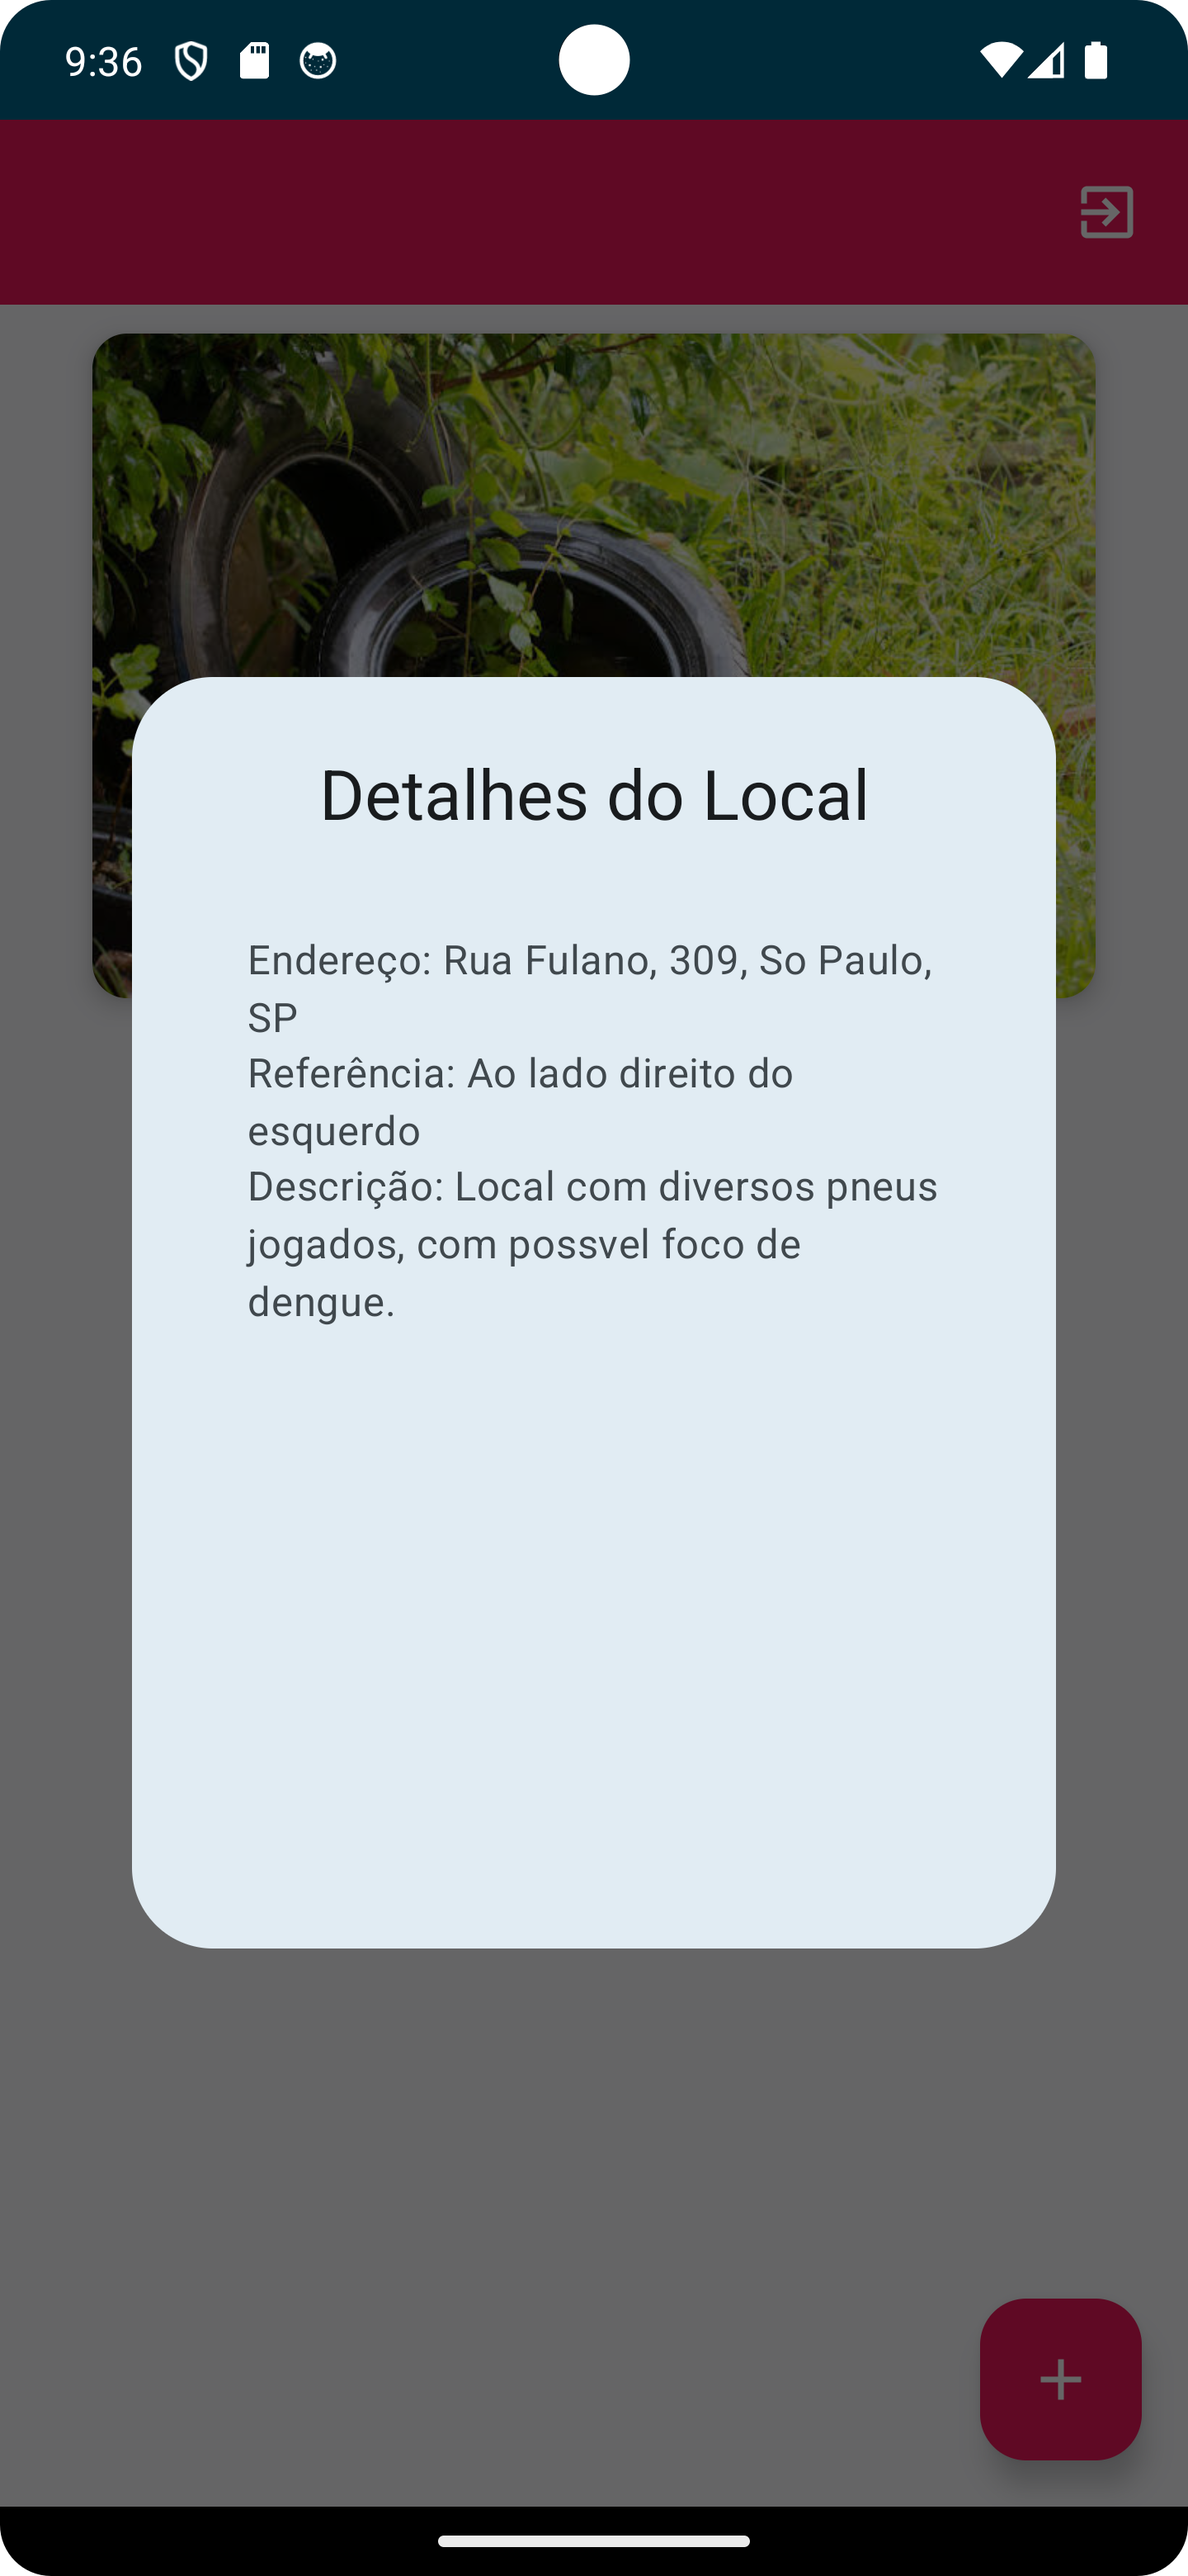
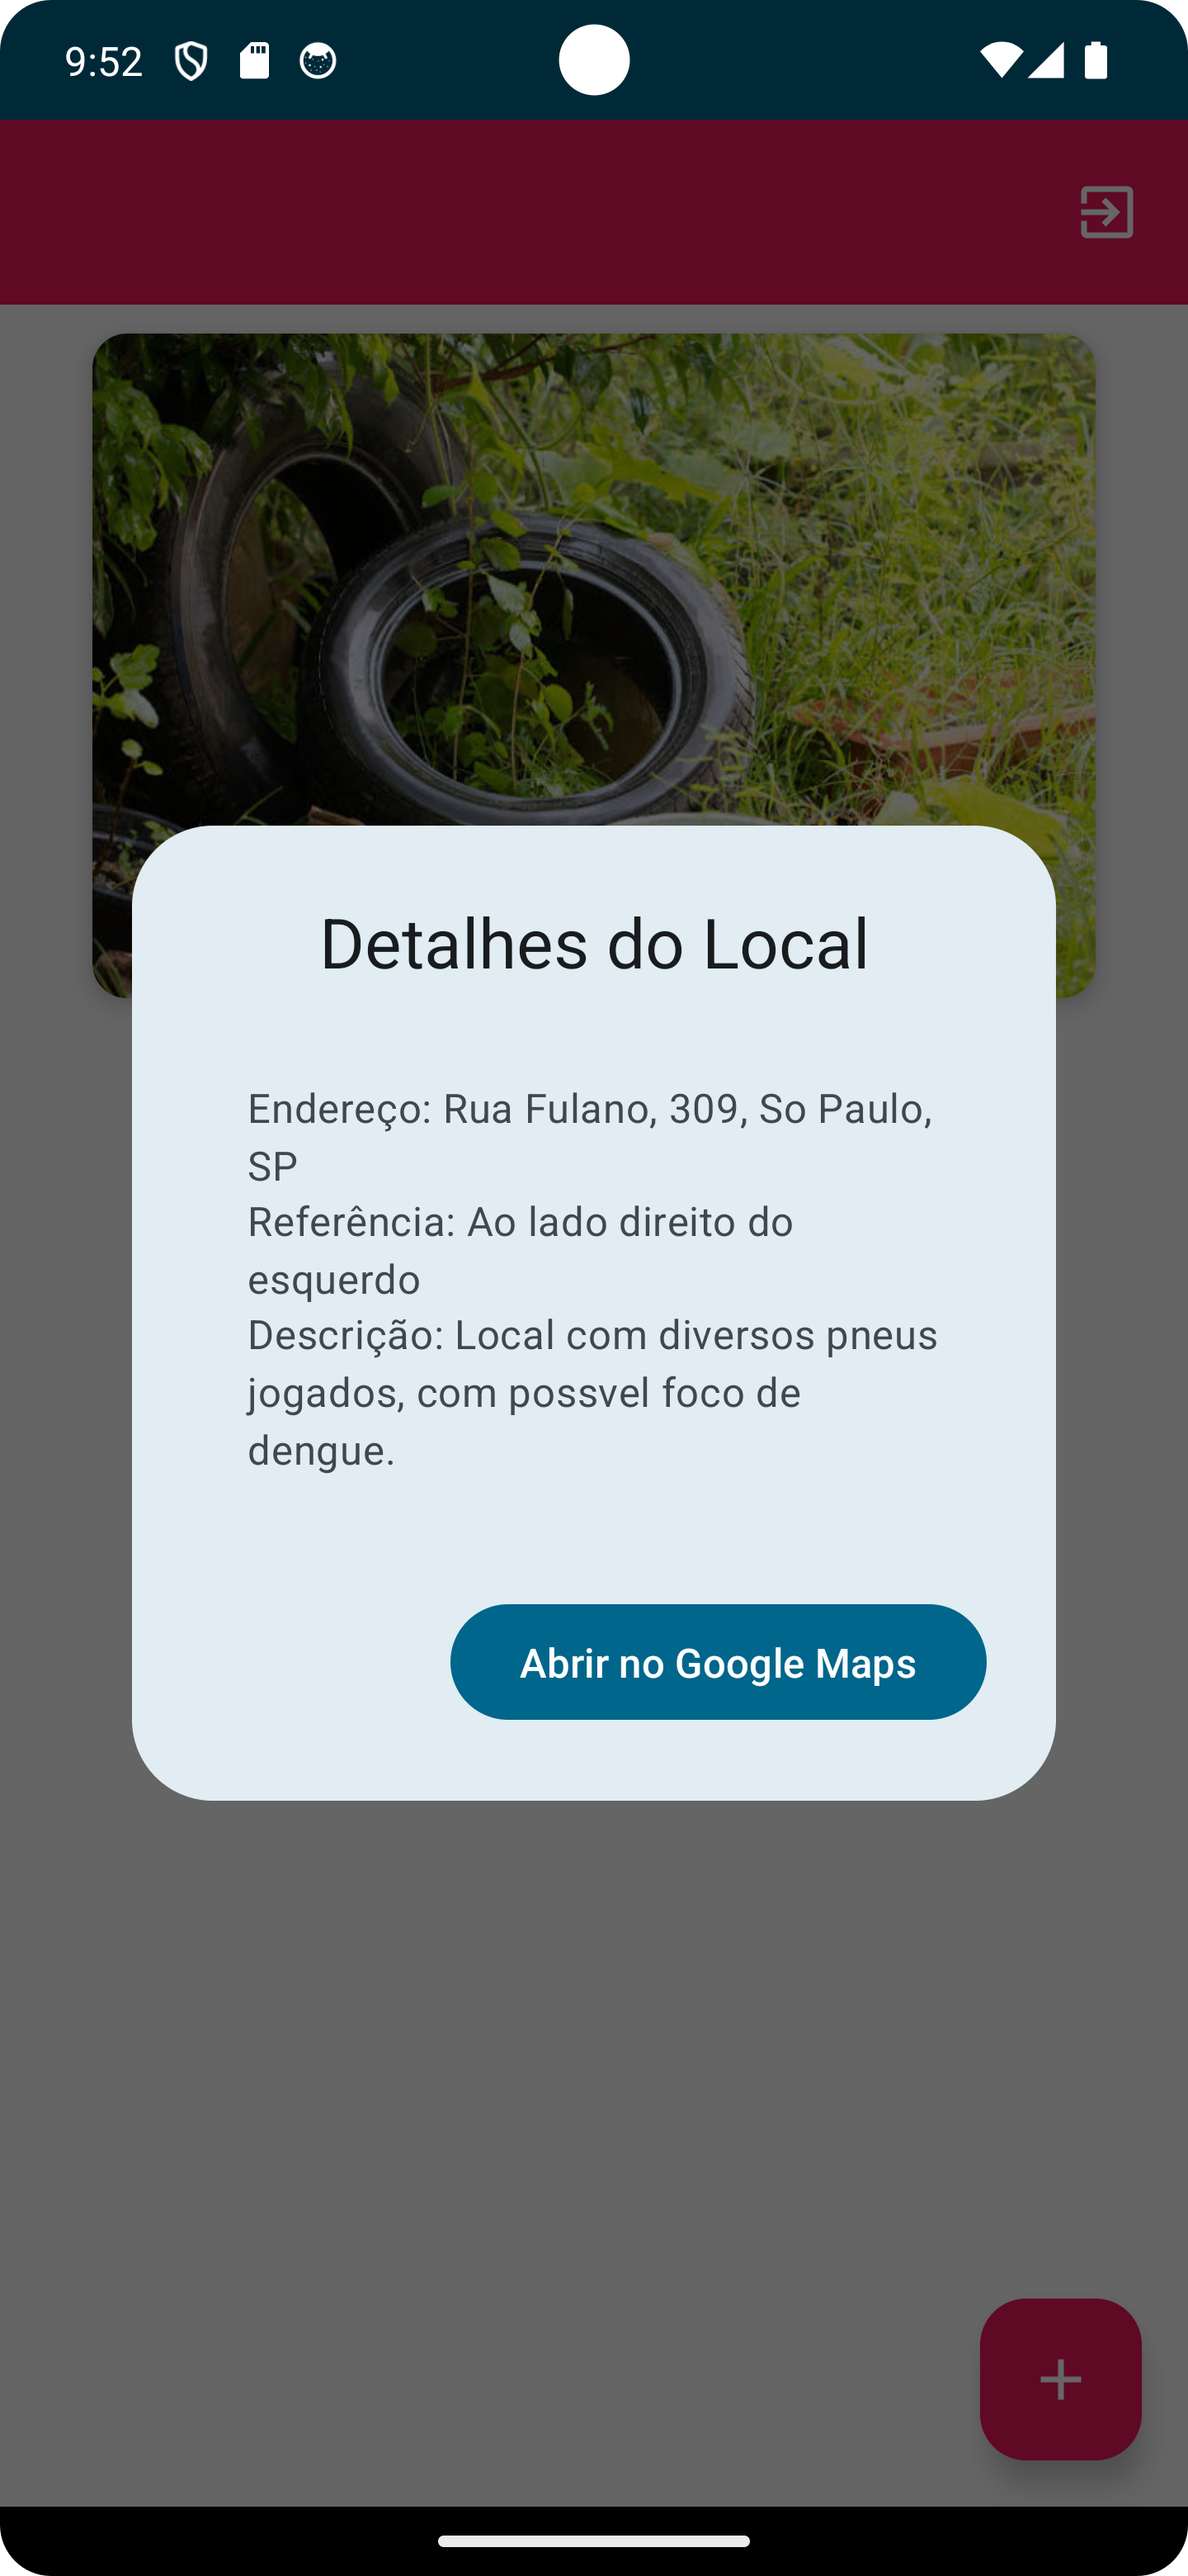
:sparkles: feat: Redirect Address to Maps

diff --git a/app/src/main/java/com/fiap/zerodengue/ui/components/CustomAlertDialog.kt b/app/src/main/java/com/fiap/zerodengue/ui/components/CustomAlertDialog.kt
@@ -1,15 +1,20 @@
 package com.fiap.zerodengue.ui.components
 
+import android.content.Intent
+import android.net.Uri
 import androidx.compose.foundation.layout.Column
 import androidx.compose.foundation.layout.fillMaxWidth
-import androidx.compose.foundation.layout.height
 import androidx.compose.foundation.layout.padding
 import androidx.compose.foundation.lazy.LazyColumn
+import androidx.compose.foundation.lazy.LazyRow
 import androidx.compose.material3.AlertDialog
+import androidx.compose.material3.Button
 import androidx.compose.material3.ExperimentalMaterial3Api
 import androidx.compose.material3.Text
 import androidx.compose.runtime.Composable
+import androidx.compose.runtime.remember
 import androidx.compose.ui.Modifier
+import androidx.compose.ui.platform.LocalContext
 import androidx.compose.ui.text.style.TextAlign
 import androidx.compose.ui.unit.dp
 import androidx.compose.ui.unit.sp
@@ -36,7 +41,6 @@ fun CustomAlertDialog(
                 LazyColumn(
                     modifier = Modifier
                         .fillMaxWidth()
-                        .height(320.dp)
                 ) {
                     items(count = locations.size) { location ->
                         Column(
@@ -64,7 +68,30 @@ fun CustomAlertDialog(
                     }
                 }
             },
-            confirmButton = {}
+            confirmButton = {
+                LazyRow {
+                    items(count = locations.size){ index ->
+                        MapButton(address = locations[index].address)
+                    }
+                }
+            }
         )
+    }
+}
+
+@Composable
+fun MapButton(address: String) {
+    val context = LocalContext.current
+    val intent = remember {
+        Intent(Intent.ACTION_VIEW, Uri.parse("geo:0,0?q=$address"))
+            .setPackage("com.google.android.apps.maps")
+    }
+
+    Button(
+        onClick = {
+            context.startActivity(intent)
+        }
+    ) {
+        Text("Abrir no Google Maps")
     }
 }

diff --git a/app/src/main/java/com/fiap/zerodengue/data/DengueRepository.kt b/app/src/main/java/com/fiap/zerodengue/data/DengueRepository.kt
@@ -49,19 +49,6 @@ class DengueRepository {
             }
     }
 
-//    fun getImages(onSuccess: (List<String>) -> Unit, onFailure: (Exception) -> Unit) {
-//        val db = Firebase.firestore
-//        db.collection("locations")
-//            .get()
-//            .addOnSuccessListener { documents ->
-//                val urls = documents.mapNotNull { it.getString("imageUrl") }
-//                onSuccess(urls)
-//            }
-//            .addOnFailureListener { exception ->
-//                onFailure(exception)
-//            }
-//    }
-
 fun getImages(onSuccess: (List<DengueLocation>) -> Unit, onFailure: (Exception) -> Unit) {
     val db = Firebase.firestore
     db.collection("locations")
